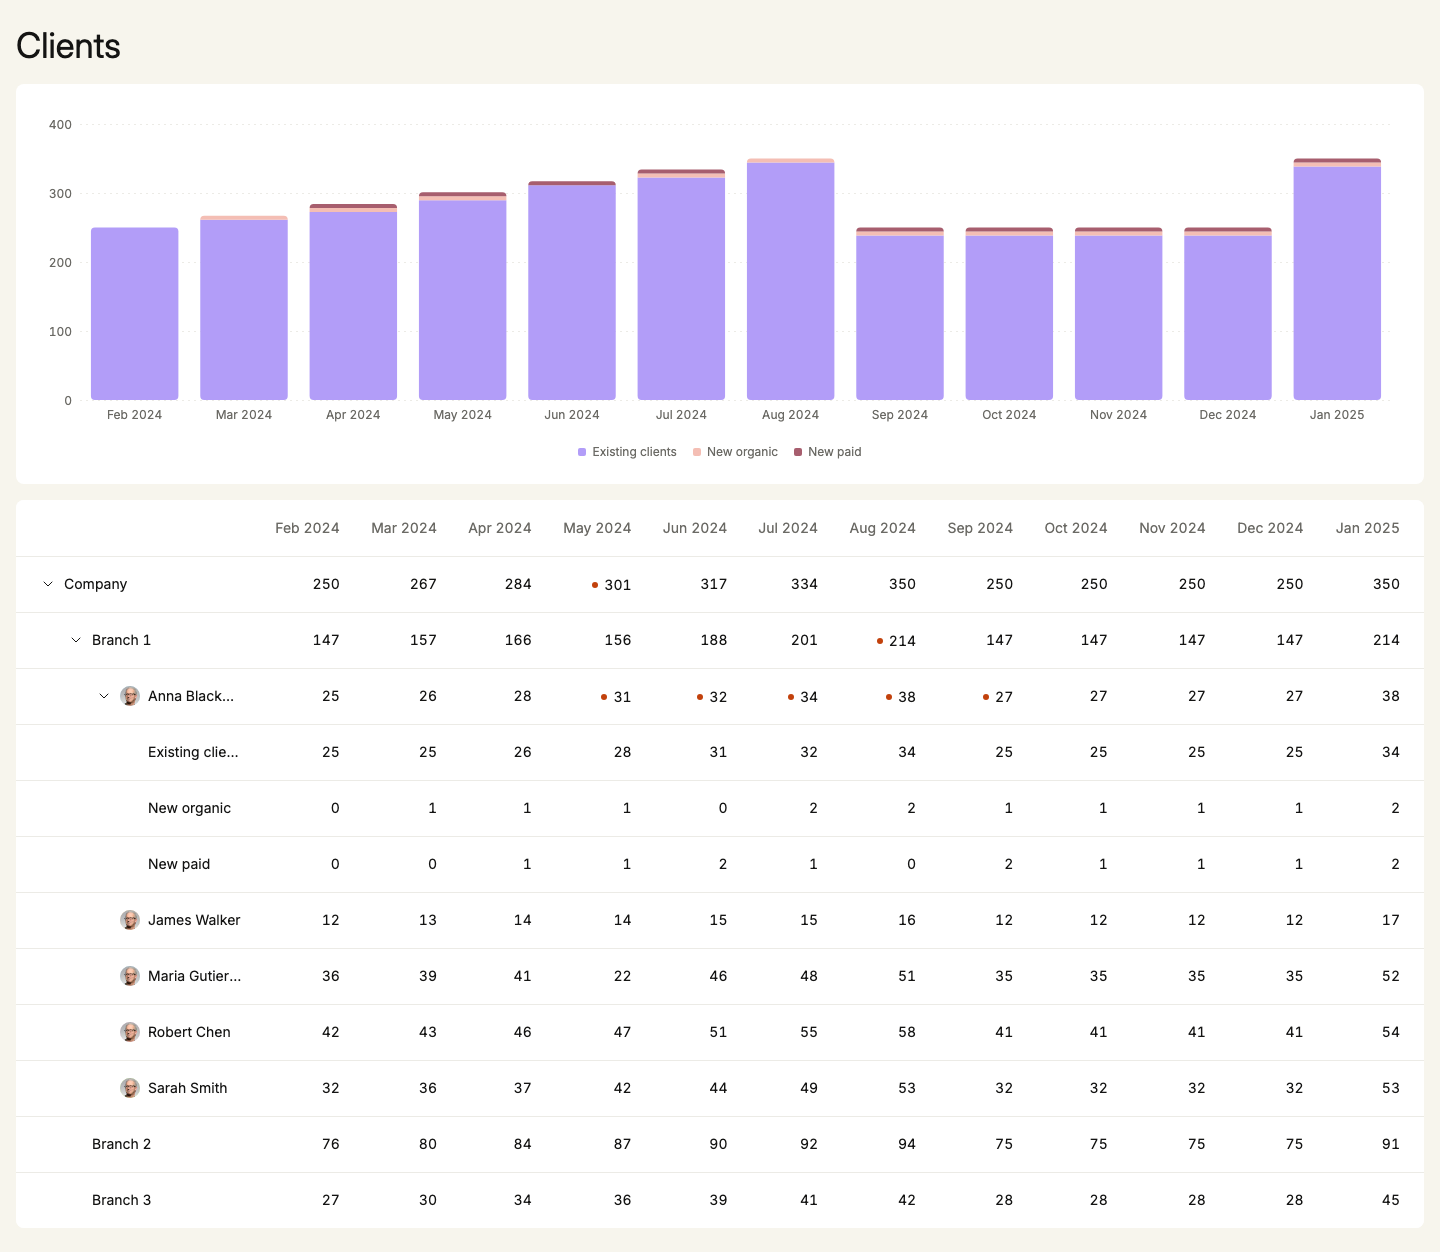
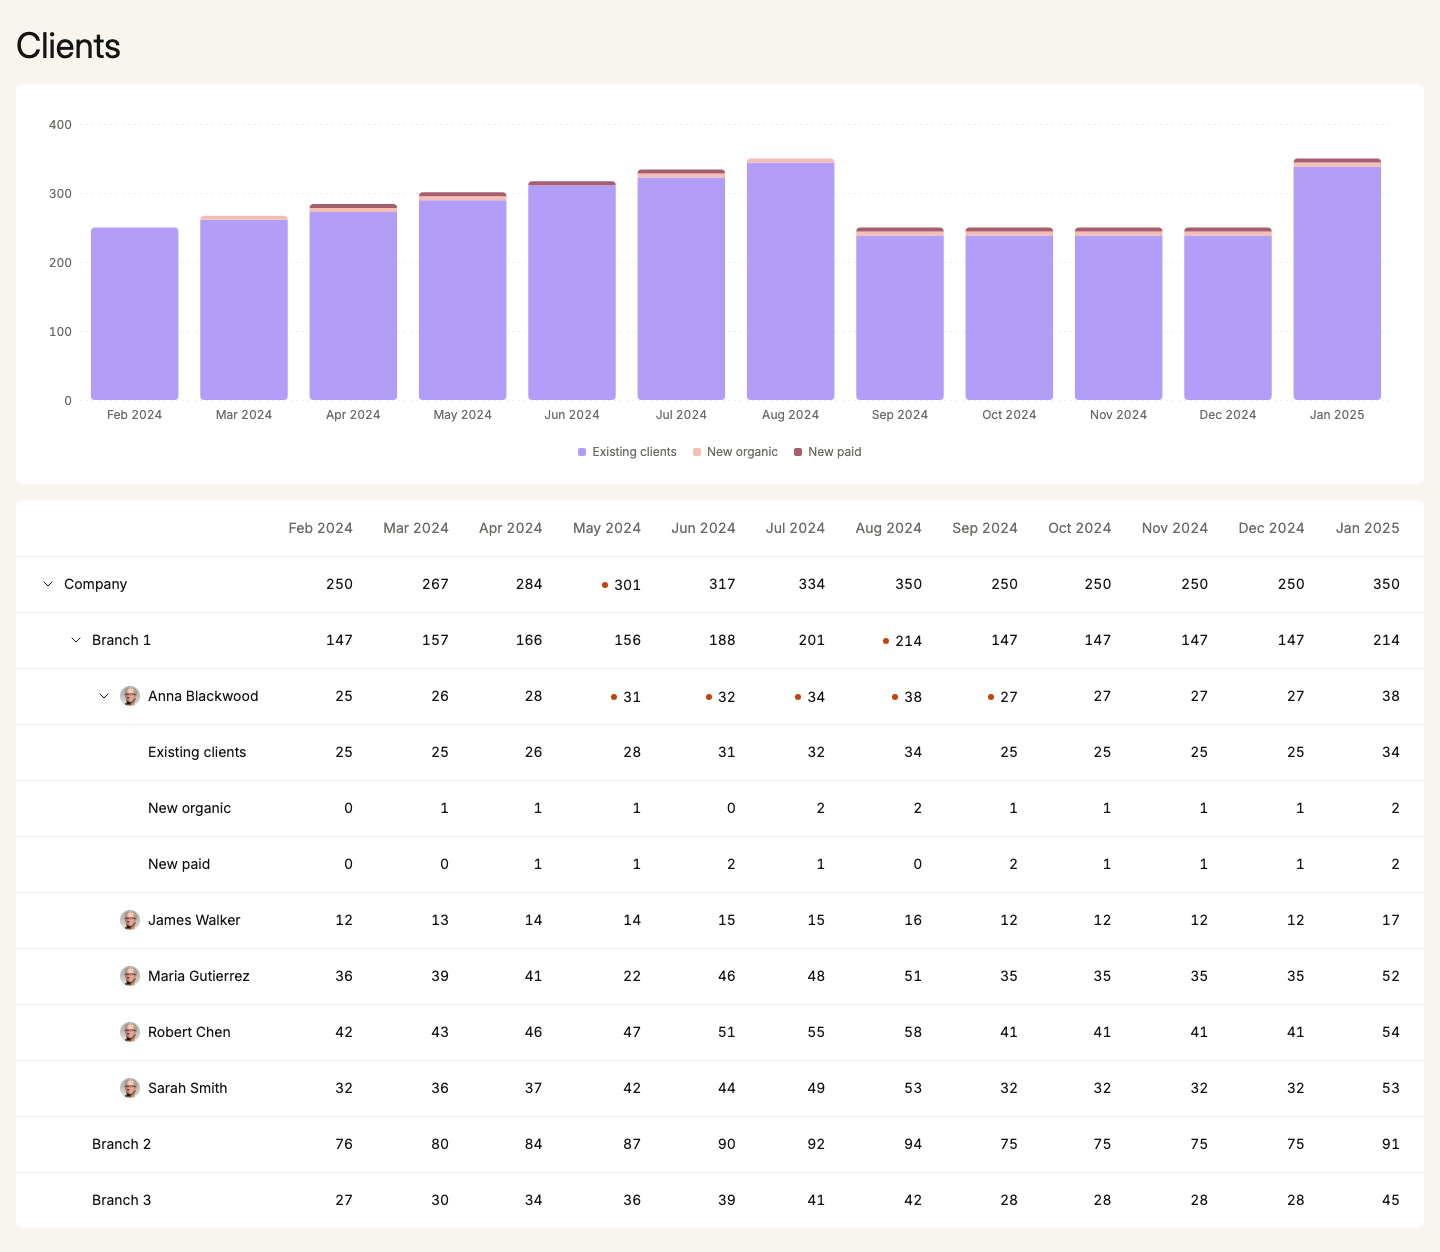
responsevnes

diff --git a/apps/frontend/src/ui/table/table.tsx b/apps/frontend/src/ui/table/table.tsx
@@ -23,10 +23,16 @@ import './table.css'
 const FOCUS_RING =
     'outline-hidden focus-visible:outline-2 focus-visible:-outline-offset-2 focus-visible:outline-solid focus-visible:outline-focus'
 
-// name column: fixed width, sticky on the left with a solid background, edge
-// shadow from table.css while scrolled sideways
+// Name column: sticky on the left with a solid background, edge shadow from
+// table.css while scrolled sideways. Wide screens: as wide as its names, at
+// least 240px, at most the cap in RowHeaderCell (browsers ignore max-width on
+// table cells); width 1px makes it shrink to that instead of taking a share of
+// the spare width, which goes to the month columns. Narrow screens: fixed 160px.
 const NAME_COLUMN =
-    'table-sticky sticky left-0 z-10 w-60 min-w-60 max-w-60 text-left max-sm:w-40 max-sm:min-w-40 max-sm:max-w-40'
+    'table-sticky sticky left-0 z-10 min-w-60 text-left sm:w-px max-sm:w-40 max-sm:min-w-40 max-sm:max-w-40'
+
+// widest the name cell's content may get on wide screens; longer names end with "..."
+const NAME_MAX = 'sm:max-w-80'
 
 const column = tv({
     base: `h-14 px-3 text-right font-normal whitespace-nowrap text-muted last:pe-6 ${FOCUS_RING}`,
@@ -86,7 +92,8 @@ export const TableScroller = ({ children }: TableScrollerProps) => {
     return (
         <div
             ref={ref}
-            className="table-scroller overflow-x-auto overscroll-x-contain scroll-ps-60 max-sm:scroll-ps-40"
+            // scroll padding = widest name column (content max 320 + 36 padding)
+            className="table-scroller overflow-x-auto overscroll-x-contain scroll-ps-[356px] max-sm:scroll-ps-40"
         >
             {children}
         </div>
@@ -226,7 +233,7 @@ export const RowHeaderCell = ({ label, leading }: RowHeaderCellProps) => (
     <AriaCell className={ROW_HEADER_CELL}>
         {({ level, hasChildItems, isExpanded }) => (
             <span
-                className="flex min-w-0 items-center gap-2"
+                className={`flex min-w-0 items-center gap-2 ${NAME_MAX}`}
                 style={{
                     paddingInlineStart: `calc(var(--tree-indent) * ${String(level - 1)})`,
                 }}

diff --git a/apps/frontend/e2e/table.e2e.ts b/apps/frontend/e2e/table.e2e.ts
@@ -277,6 +277,31 @@ test.describe('hierarchy for assistive technology', () => {
     })
 })
 
+test.describe('wide screen', () => {
+    test('the name column fits the names, up to a cap, and gives the rest to the months', async ({
+        page,
+    }) => {
+        await openAt(page, 1440)
+        await row(page, 'Branch 1').click()
+        await row(page, 'Anna Blackwood').click()
+
+        const names = table(page).getByRole('rowheader')
+        const cut = await names.evaluateAll((cells) =>
+            cells.filter((cell) => {
+                const label = cell.querySelector('.truncate')
+                return label !== null && label.scrollWidth > label.clientWidth
+            })
+        )
+        expect(cut).toHaveLength(0)
+        const width = await names
+            .first()
+            .evaluate((cell) => cell.getBoundingClientRect().width)
+        // at least 240px, at most 320px content + 36px padding
+        expect(width).toBeGreaterThanOrEqual(240)
+        expect(width).toBeLessThanOrEqual(356)
+    })
+})
+
 test.describe('narrow screen (375px)', () => {
     test('only the table scrolls sideways, and opening a row does not scroll it', async ({
         page,

diff --git a/PLAN.md b/PLAN.md
@@ -314,7 +314,7 @@ Done when: `pnpm dev` starts both apps and the page shows the "Clients" heading.
 - [x] T5.3 `ui/table`: thin wrappers over RAC tree `Table` (`treeColumn`, `expandedKeys`, `onExpandedChange`); `TreeCellContent` (aria-hidden chevron, 28px indent per level, empty slot on leaves so names line up); `TableScroller` (sideways scroll inside the card). Also `ChildRows` (nested rows), `Row` with optional `onAction` (leaves get none), `RowHeaderCell` reading `level` / `hasChildItems` / `isExpanded` from RAC cell render props. `table.css`: sticky edge shadow via CSS scroll timeline (`scroll-timeline: --table-x inline`; no scroll listener; no shadow where unsupported) and the row enter animation via `@starting-style`. `TableScroller` cancels the browser's own Left / Right scroll inside the table (it scrolled 40px on every Right that opened a row); RAC still scrolls a focused cell into view.
 - [x] T5.4 `ClientsTable`: month headers via `formatMonth`; advisor rows pass `src={advisorAvatarUrl(id)}` to `Avatar` (photo support done in Phase 3); toggle on click / Enter / Right / Left; Space does nothing; leaf rows: no chevron, no `aria-expanded`, no hover fill, no pointer cursor; avatar on advisor rows; names are row headers, months are column headers.
 - [x] T5.5 `ClientsTableSkeleton` with the same layout and height (header + 4 rows): 280 px loaded and loading at 1440 and 375 px.
-- [x] T5.6 375px: name column 160px, sticky left with solid background (rows: inherits the row fill, also on hover; header: own fill), edge shadow while scrolled, ellipsis + full name while the row has keyboard focus (`data-focus-visible-within`, wraps by word). Narrow screens use a 12 px indent per level (28 px on desktop, via `--tree-indent`) and 16 px start padding, or level-3 names had ~25 px left ("A..").
+- [x] T5.6 375px: name column 160px, sticky left with solid background (rows: inherits the row fill, also on hover; header: own fill), edge shadow while scrolled, ellipsis + full name while the row has keyboard focus (`data-focus-visible-within`, wraps by word). Narrow screens use a 12 px indent per level (28 px on desktop, via `--tree-indent`) and 16 px start padding, or level-3 names had ~25 px left ("A.."). Wide screens (after a review note): the name column is as wide as its names, at least 240px and at most 320px of content (cap on the cell's content, since browsers ignore `max-width` on table cells; `width: 1px` so it shrinks to that instead of taking a share of the spare width); 254px for the delivered data at 1440px, no name cut.
 - [x] T5.7 FE data checks (decision 11): `features/clients/data-issues.ts` `findDataIssues(tree)` (on the uniform tree) -> sum mismatches (expects the 7 in section 5) and nodes without channels (James, Maria, Robert, Sarah, Branch 2, Branch 3). Header comment: FE for now to ship faster; talk to the BE team to fix the data on the BE. In dev, one `console.warn` per issue after load. In the table, a mismatched cell keeps its stored value and gets a small marker + tooltip "Stored 301, children sum to 279" (sr-only text too). Marker: dot, `title` on hover, the note while the cell has keyboard focus, sr-only text in the cell. Warnings deduplicated per page load (StrictMode runs effects twice); none in production.
 - [x] T5.8 _stretch_: enter animation (~300 ms slide/fade, `transform` + `opacity` only, see section 10) only for rows opened by the user; none with reduced motion. Done: only after the first user toggle (`data-animate-new-rows`), opacity + transform 300 ms, none with reduced motion.
 - [x] Tests: unit 18 (`table-tree`: mapping, order, stored values, Branch 2 / 3 leaves, only Anna has children, empty list = leaf, `collapseKeys`, `nextExpanded`, `toggleExpanded`; `data-issues`: the 7 mismatches, the 6 missing breakdowns, none on consistent data, one warning per issue). Browser `e2e/table.e2e.ts` (16 tests with the smoke test, real API, `pnpm check:e2e`): start rows and stored values; marker note; open Branch 1 -> 5 advisors, Anna -> 3 channels, close and reopen Branch 1 -> Anna closed; leaf click does nothing, no pointer; advisor photo loads; keyboard (one Tab stop, Right opens, Left to parent then closes, Enter toggles, Space nothing); `treegrid`, `aria-level` 1-4, `aria-expanded` only on the 3 parents, name read once; 375 px (no page scroll, opening a row does not scroll the table, every focused month cell clear of the name column, full name on focus); placeholder height = table height (1440 / 375); axe with rows closed and open (1440 / 375, reduced motion so axe does not measure mid-fade).

diff --git a/README.md b/README.md
@@ -23,7 +23,7 @@ You need [nvm](https://github.com/nvm-sh/nvm).
 | ------------------ | ------------------------------------------------------------------------------------------------------------------------------------------------------ |
 | `pnpm check`       | lint (0 warnings), format check, typecheck, unit tests in every package (137 tests)                                                                    |
 | `pnpm e2e:install` | installs Chromium for the browser tests, once per machine                                                                                              |
-| `pnpm check:e2e`   | builds the web app, starts the API (8787) and the preview (4173), runs 48 Playwright tests. The ports must be free, so stop `pnpm dev` first           |
+| `pnpm check:e2e`   | builds the web app, starts the API (8787) and the preview (4173), runs 49 Playwright tests. The ports must be free, so stop `pnpm dev` first           |
 | `pnpm storybook`   | every UI component and both cards in every load state, with the accessibility addon, on http://localhost:6006                                          |
 | `pnpm screenshots` | regenerates the pictures above                                                                                                                         |
 | `pnpm generate`    | regenerates types, client and mocks from `packages/api-contract/openapi.yaml`; `pnpm check:generated` fails when the committed generated code is stale |
@@ -81,6 +81,7 @@ I could not open the Figma file from my setup, so colours, spacing and sizes are
 - **Mismatched totals get a marker**, which the design does not have.
 - Every non-zero part of a bar is drawn **at least 4 px tall**, so 1-2 new clients are visible; the extra pixels come from the biggest part, so the bar keeps its true height. The tooltip and data table show the real numbers.
 - The legend is a plain list, **not clickable**: hiding a series would make bars shorter than their totals.
+- **Name column**: on wide screens it is as wide as the names (at least 240px, at most 320px of text; longer names end with "..."), so no name is cut today.
 - **375px**: the table scrolls inside its card with a sticky 160px name column (edge shadow while scrolled); long names end with "..." and show in full while the row has keyboard focus; the indent per level shrinks from 28 to 12px. The chart hides month labels that would overlap; every month stays in the tooltip and the data table.
 - Opened rows slide in; nothing animates with reduced motion.
 
